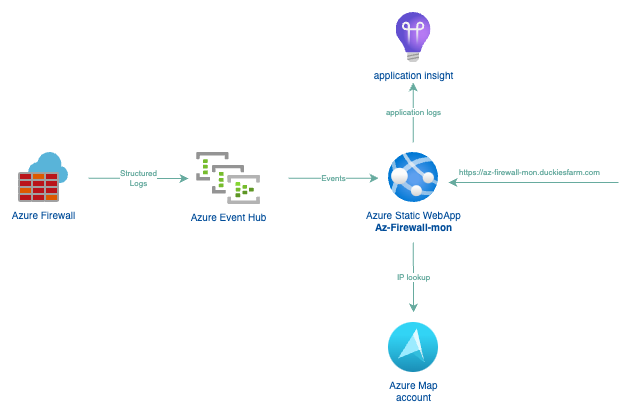
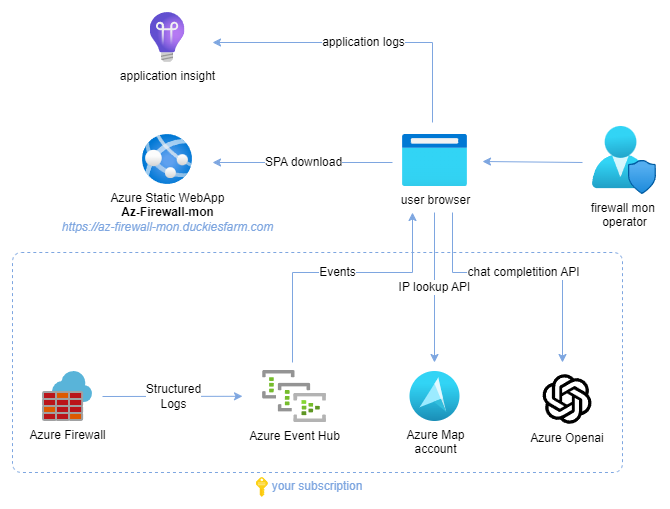
update read.me

diff --git a/firewall-mon-app/src/app/login/login.component.html b/firewall-mon-app/src/app/login/login.component.html
@@ -32,7 +32,7 @@
             <input title="not used" matInput [disabled]="isDemoMode" [(ngModel)]="azureMapsSharedKey" type="password">
         </mat-form-field>
         
-        <p>The following optional parameters are needed if you want to use natural language to query the log stream.</p>
+        <p>The following optional parameters are needed if you want to use natural language to filter the log stream.</p>
 
         <mat-form-field appearance="outline" class="login-field">
             <mat-label>Azure OpenAI endpoint</mat-label>

diff --git a/README.md b/README.md
@@ -6,7 +6,7 @@
 <h1 align="center">az-firewall-mon🧑🚒</h1>
 
 <div align="center">
-  an <i>alternative and opinionable</i>😊 way to access and inspect Azure Firewall logs
+  an <i>alternative and opinionable</i> way to access and inspect Azure Firewall logs
 </div>
 
 <br/>
@@ -25,9 +25,32 @@
 
 We all know that Microsoft's recommended approach for analysing Azure Firewall logs is to set up a Log Analytics Workspace to collect all the data and use Kusto (KQL) queries to check the results. 
 
-Azure-Firewall-mon focuses more on providing a tool that can answer the simple question "_what is happening right now?_" in an alternative and hopefully practical way: the idea is to provide an approach much more like [Sysinternals Process Monitor](https://learn.microsoft.com/en-us/sysinternals/downloads/procmon) or [Check Point's SmartView/SmartLog](https://sc1.checkpoint.com/documents/R80.40/WebAdminGuides/EN/CP_R80.40_LoggingAndMonitoring_AdminGuide/Topics-LMG/Using-log-view.htm?tocpath=Logging%7C_____2), where there is no queries or dashboards that you need to implement first to get working. Still, all events are available as a _log-stream_. In addition, a full-text search at the top of the page lets you quickly filter the content displayed on the screen, helping you understand what is happening right now (or almost). 
+Azure-Firewall-mon focuses more on providing a tool that can answer the simple question "_what is happening right now?_" in an alternative and hopefully practical way: the idea is to provide an approach much more like [Sysinternals Process Monitor](https://learn.microsoft.com/en-us/sysinternals/downloads/procmon) or [Check Point's SmartView/SmartLog](https://sc1.checkpoint.com/documents/R80.40/WebAdminGuides/EN/CP_R80.40_LoggingAndMonitoring_AdminGuide/Topics-LMG/Using-log-view.htm?tocpath=Logging%7C_____2), where there is no KUSTO queries or dashboards that you need to implement first to get working. Still, all events are available as a _log-stream_.
 
-> Are you curious? See Azure-Firewall-mon in action in this video: <https://www.youtube.com/watch?v=NNmRxgljtKE> 
+The real strength of the tool is the search field available in the top toolbar. To search for an event, simply start typing and the log flow will be automatically filtered according to those parameters.
+
+![text filter](images/01-text-filtering.png)
+
+The timestamp field displays the event date in UTC or local format. You can filter the view for the last few minutes or for a specific time range.
+
+![text filter](images/02-time-filtering.png)
+
+Within this tool, only events from the last 24 hours will appear because this is the duration set on the Event Hub Namespace. A longer duration would slow down the tool and not help answer the question "_what is happening right now_" that az-firewall-mon aims to address.
+
+As an alternative to full-text search, you can use the **chatGPT mode**: in the top search field, you can enter a request in natural language, and the system will filter the content accordingly.
+
+Some examples of queries are as follows:
+
+* "_Show me events from the last 15 minutes_" 
+* "_Search project alpha_" 
+* "_Filter rows with category containing "NetworkRule"_" 
+* "_Filter events between 12:00 and 13:00_" 
+* "_Filter for target containing 192.168.1.1_" 
+* "_Include only logs with protocol TCP_" 
+* "_Show me only the deny actions_" 
+* "_More information on source 192.168.1.1_"
+
+![chatgpt](images/03-chatgpt.gif)
 
 # Setup a connection with your Azure Firewall
 
@@ -46,17 +69,23 @@ To use this app with **YOUR data**, you must perform the following steps on your
     - Select _all_ _logs_ and "Stream to Event Hub"
     - Select the Event Hub Namespace and Hub created above
     - click `SAVE`
+6. Create an Azure OpenAI Service
+7. Go to OpenAI Studio > Deployments > Create a new deployment using as model `gpt-4-32k v0613`
+
+
+Lazy engineers can performs steps 1, 2, 3, 4, 5, 6, and 7 by clicking the following button:
+
+ [![Deploy to Azure](https://aka.ms/deploytoazurebutton)](https://portal.azure.com/#create/Microsoft.Template/uri/https%3A%2F%2Fraw.githubusercontent.com%2Fnicolgit%2Fazure-firewall-mon%2Fmain%2Fbicep%2Ffirewall-mon-azure-stuff.json)
 
 Now, open <https://az-firewall-mon.duckiesfarm.com/> and do the following:
 
 1. copy in the `Event Hub Connection String` field the connection string of the Shared Access Policy created above
-2. copy in the `Azure Map Account Shared Key` field the primary or secondary Shared Key of the Azure Map Account created above
-3. click on `Let's begin`.
-
-Lazy engineers can performs steps 1, 2, 3 and 4 by clicking the following button:
-
- [![Deploy to Azure](https://aka.ms/deploytoazurebutton)](https://portal.azure.com/#create/Microsoft.Template/uri/https%3A%2F%2Fraw.githubusercontent.com%2Fnicolgit%2Fazure-firewall-mon%2Fmain%2Fbicep%2Ffirewall-mon-azure-stuff.json)
-
+2. copy the corresponding `Event Hub Consumer Group` Name
+3. copy in the `Azure Map Account Shared Key` field the primary or secondary Shared Key of the Azure Map Account created above
+4. copy in the `Azure OpenAi Endpoint` field the enpoint URI for the OpenAI resouce created above
+5. copy in the `Azure OpenAI deployment` field tne name of the deployment created above
+6. copy in the `Azure OpenAI access key` field the primary or secondary Shared Key of the Azure OpenAI account created above
+7. click on `Let's begin`.
 
 # Install Azure-firewall-mon in your environment
 
